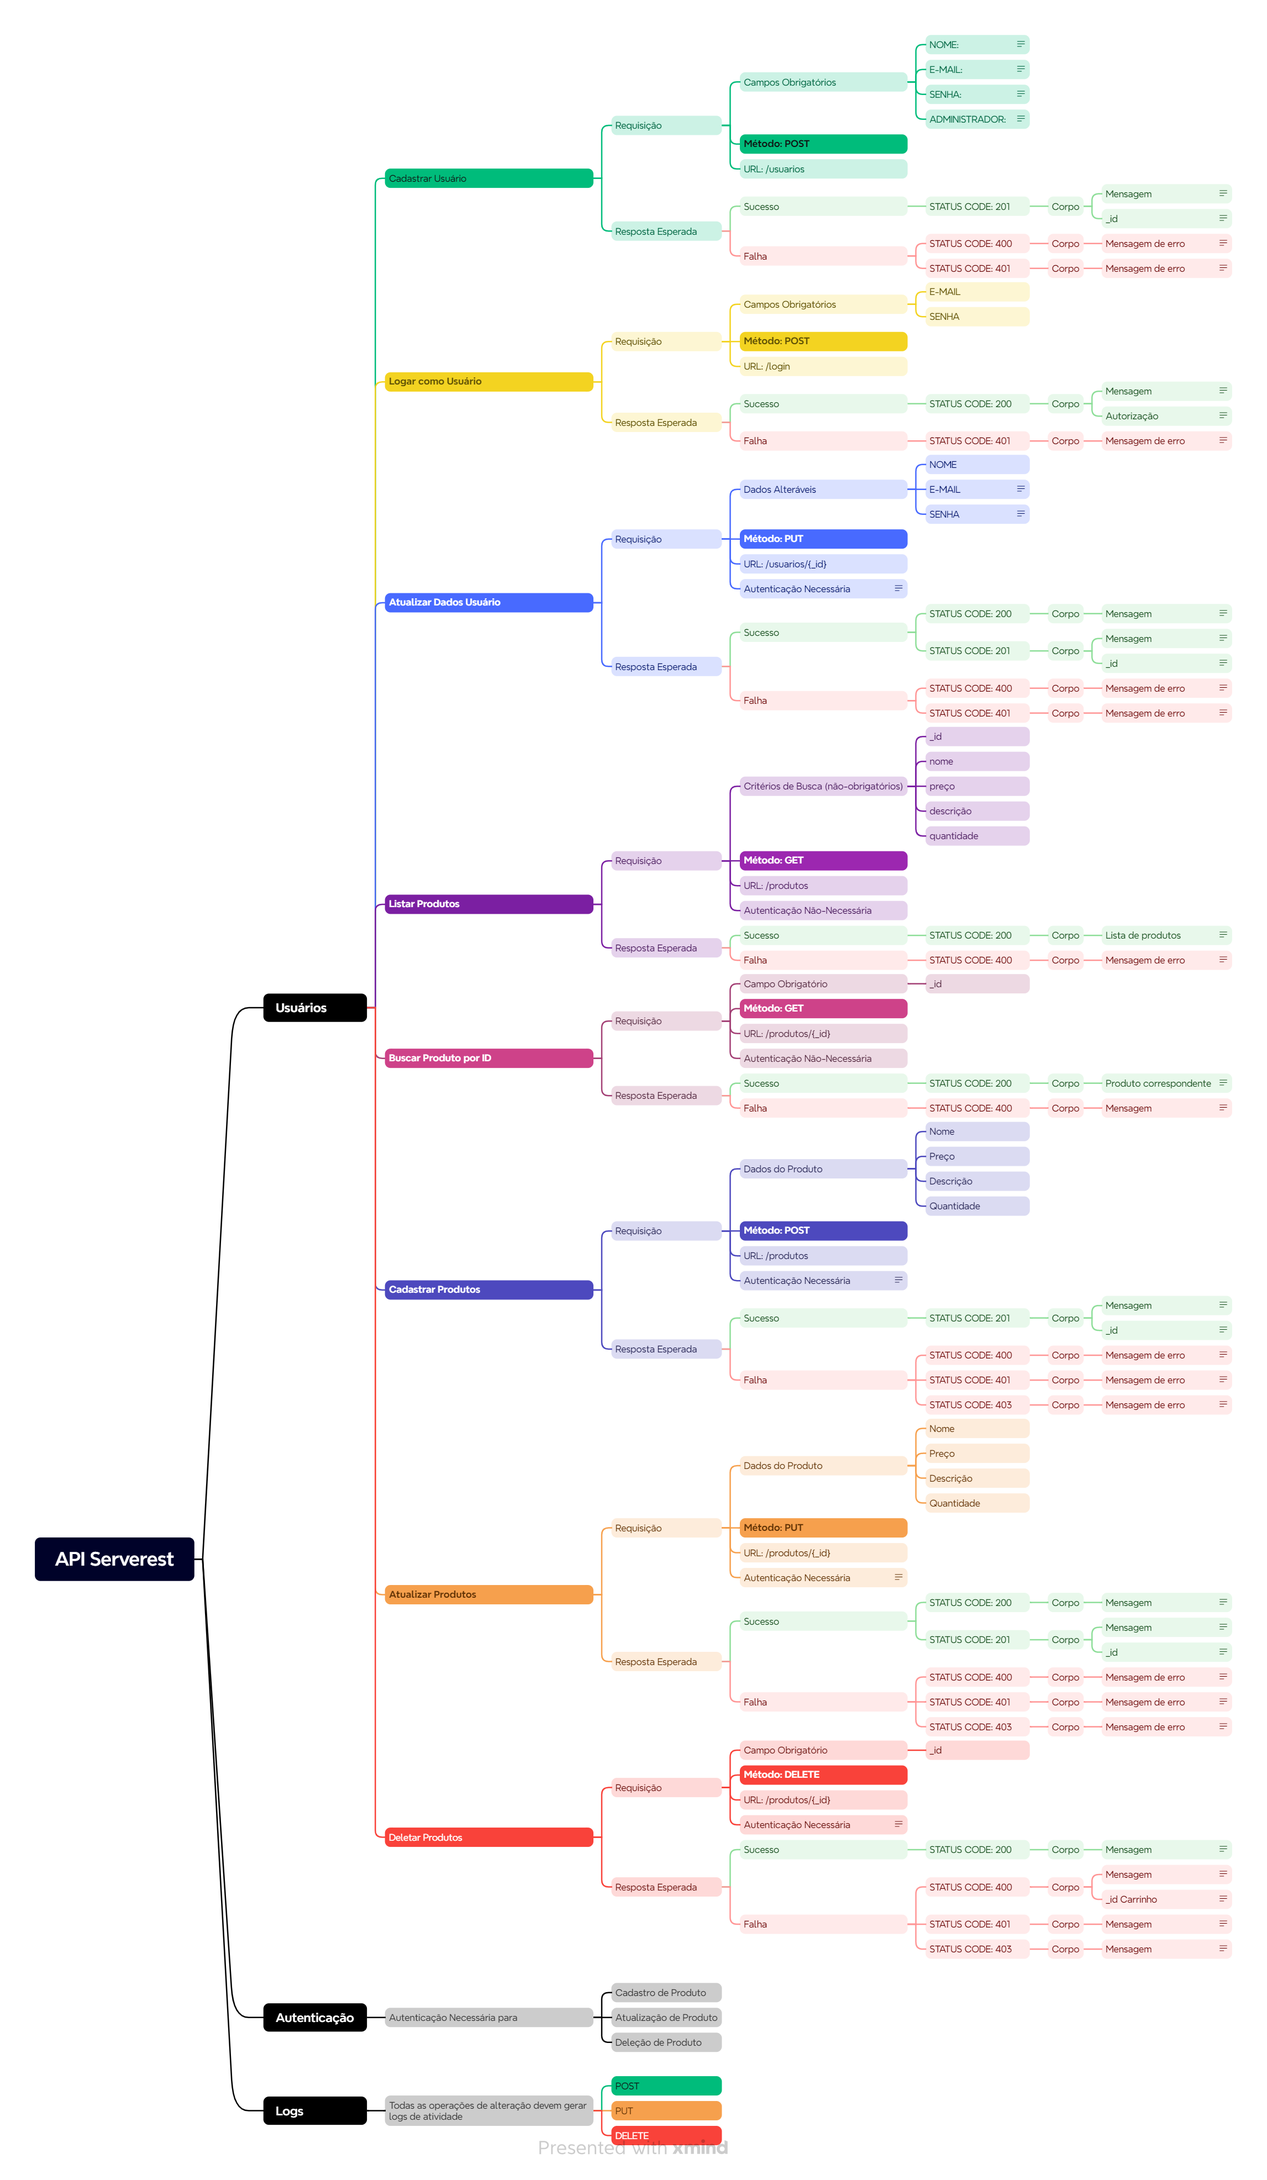
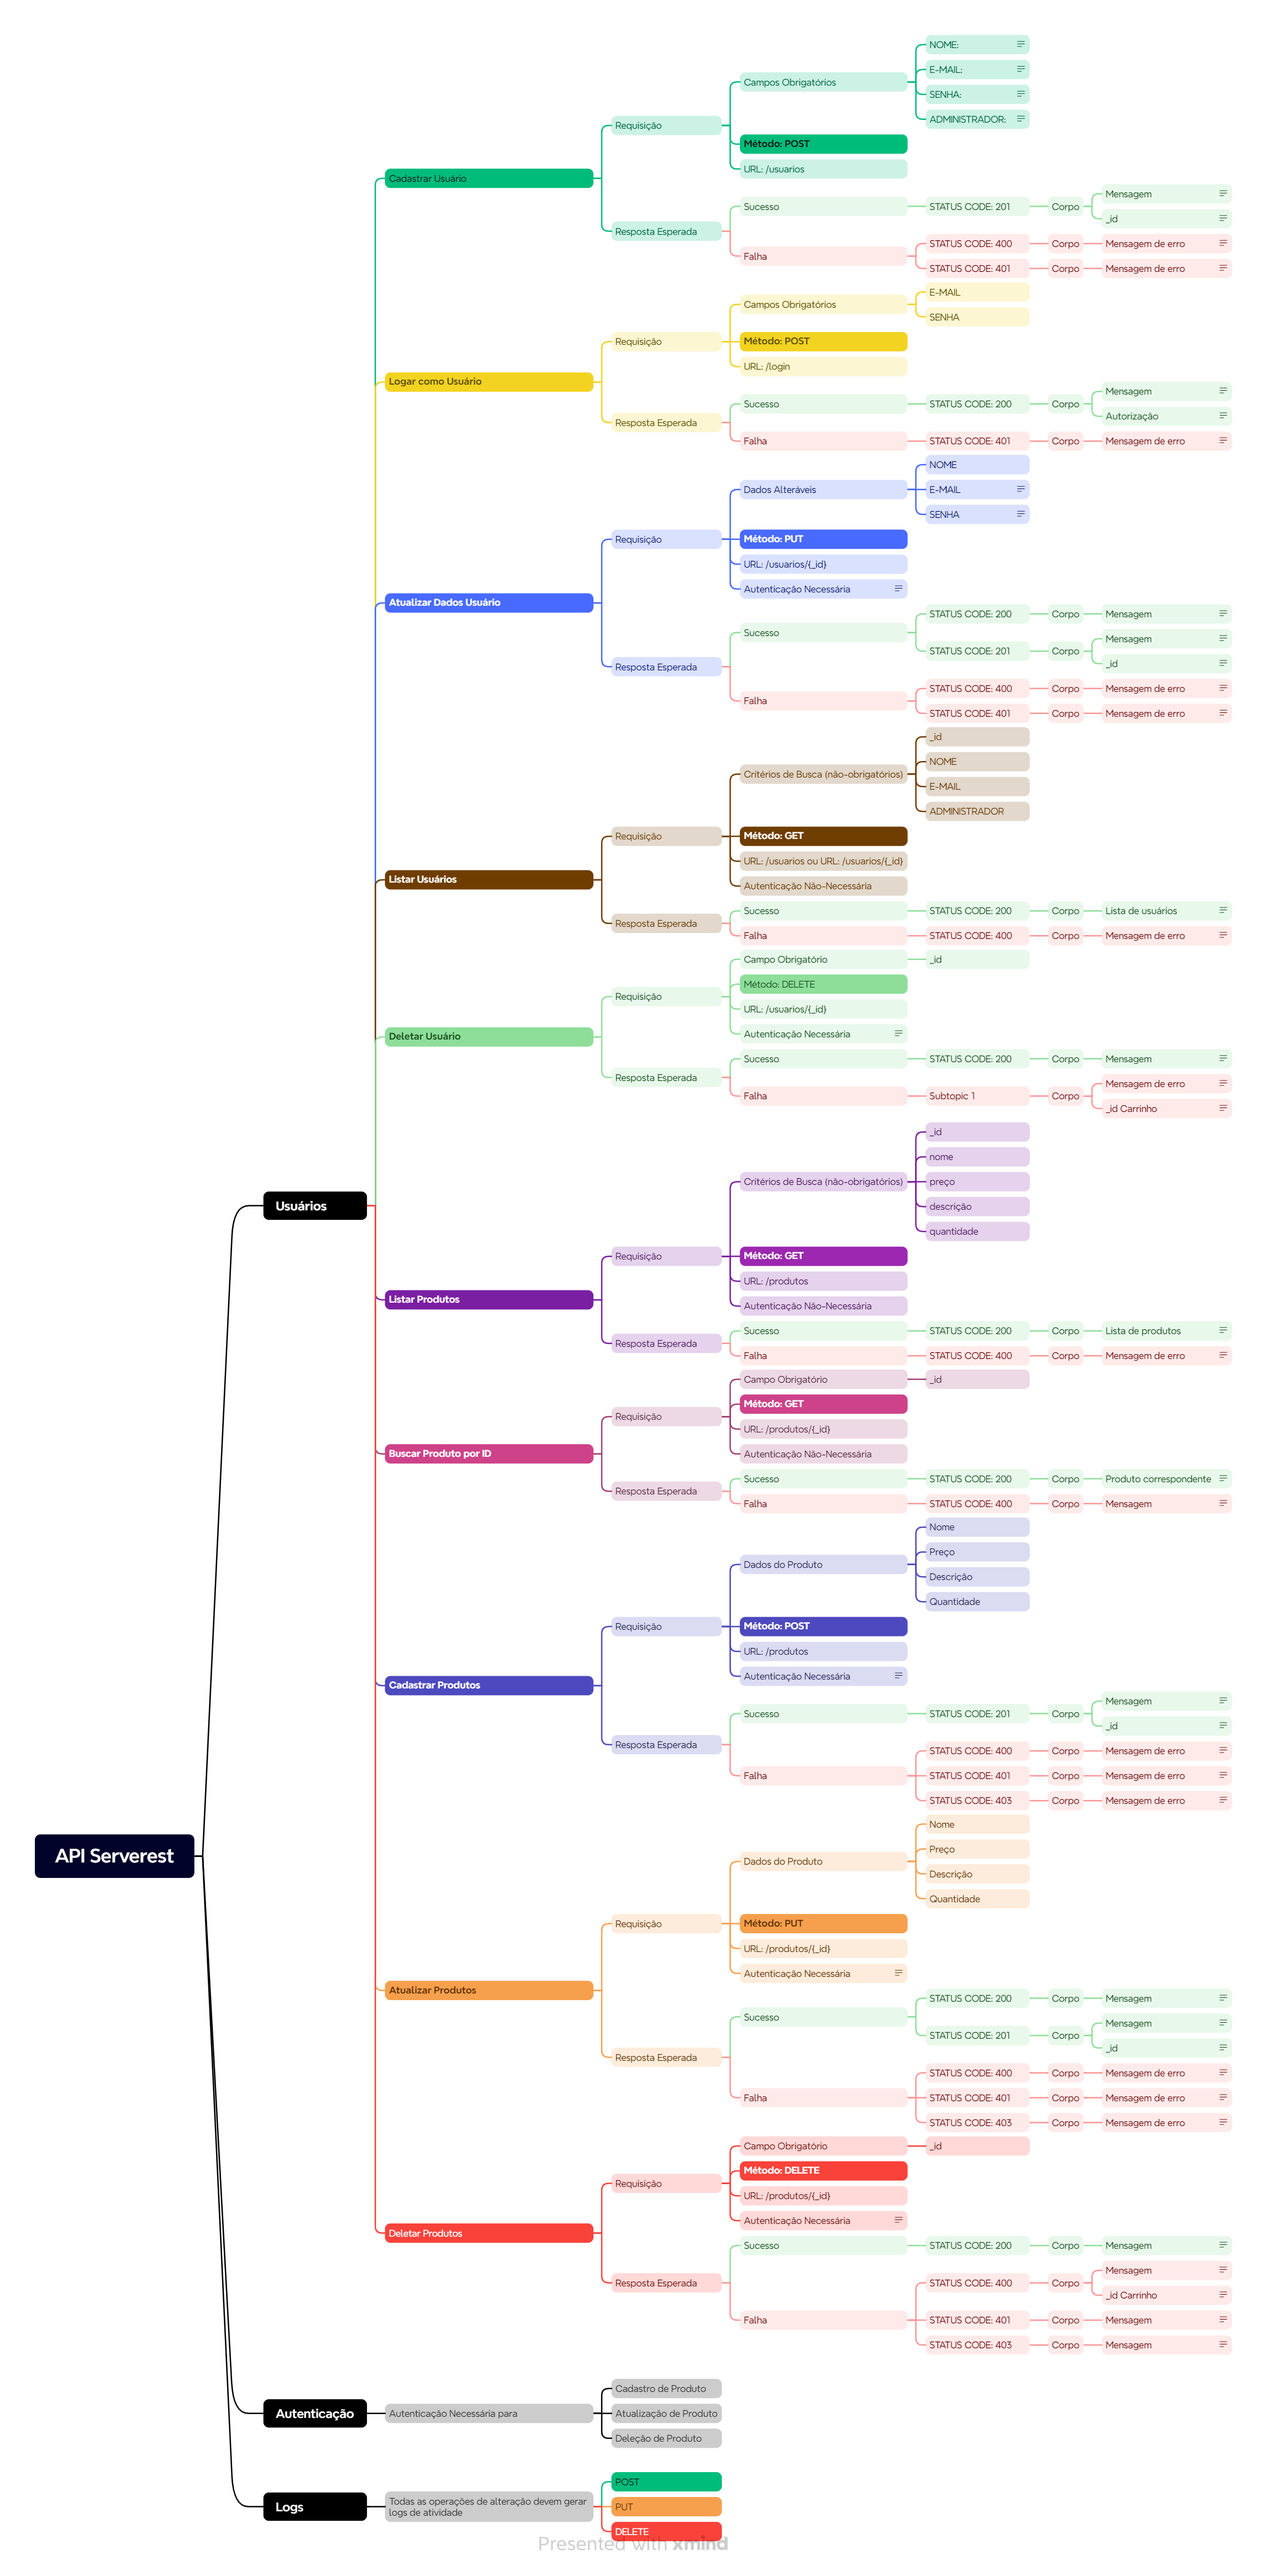
finalizando Plano de testes

diff --git a/Sprint2/Dia 9 e 10/Challenge/Plano_de_testes.md b/Sprint2/Dia 9 e 10/Challenge/Plano_de_testes.md
@@ -70,11 +70,33 @@ O objetivo desse plano de testes é verificar e garantir que a rota de usuários
         - **Pré-condições:** Possuir a autenticação necessária, não existir usuário com ID informado e e-mail já estar sendo utilizado.
         - **Resultado Esperado:** Mensagem dizendo "Este e-mail já está sendo utilizado". Status Code: 400 enviado.
 
-    - **Caso de Teste 2.1 - Tentar Alterar Dados de Usuário com E-mail e/ou Senha inválidos:**
+    - **Caso de Teste 2.2 - Tentar Alterar Dados de Usuário com E-mail e/ou Senha inválidos:**
         - **Objetivo:** Garantir que um usuário não seja criado caso o e-mail já esteja sendo utilizado.
         - **Pré-condições:** Possuir a autenticação necessária, não existir usuário com ID informado e e-mail e/ou senha serem inválidos.
         - **Resultado Esperado:** Mensagem dizendo "E-mail e/ou senha inválidos". Status Code: 401 enviado.
 
 ### Teste de Busca de Usuário
-- **Cenário 1 - Realizar busca de usuário existente**
-    **Caso de Teste 1.1 - 
+- **Cenário 1 - Realizar busca de usuário válida**
+    - **Caso de Teste 1.1 - Tentar Buscar por Usuário Existente:**
+        - **Objetivo:** Garantir que usuários existentes possam ser buscados no sistema.
+        - **Pré-condições:** Não há.
+        - **Resultado Esperado:** Lista de usuários que satisfaçam a condição de busca (se houver). Status Code: 200 enviado.
+
+- **Cenário 2 - Realizar busca de usuário inválida**
+    - **Caso de Teste 2.1 - Tentar Buscar por Usuário Inexistente:**
+        - **Objetivo:** Garantir que o usuário receba um feedback caso busque por usuários inexistentes no sistema.
+        - **Pré-condições:** Usuário(s) buscados não existirem no sistema.
+        - **Resultado Esperado:** Mensagem dizendo "Usuário não encontrado". Status Code: 400 enviado.
+
+### Teste de Deleção de Usuário
+- **Cenário 1 - Realizar deleção de usuário válida**
+    - **Caso de Teste 1.1 - Tentar Deletar Usuário Existente:**
+        - **Objetivo:** Garantir que o usuário selecionado será deletado.
+        - **Pré-condições:** Possuir a autenticação necessária e usuário não pode possuir carrinho.
+        - **Resultado Esperado:** Mensagem dizendo "Registro Excluído | Nenhum registro excluído". Status Code: 200 enviado.
+
+- **Cenário 2 - Realizar deleção de usuário inválida**
+    - **Caso de Teste 1.1 - Tentar Deletar Usuário com Carrinho:**
+        - **Objetivo:** Garantir que o usuário selecionado não será deletado.
+        - **Pré-condições:** Possuir a autenticação necessária e usuário possuir carrinho.
+        - **Resultado Esperado:** Mensagem dizendo "Não é permitido excluir usuário com carrinho cadastrado". Status Code: 400 enviado.
